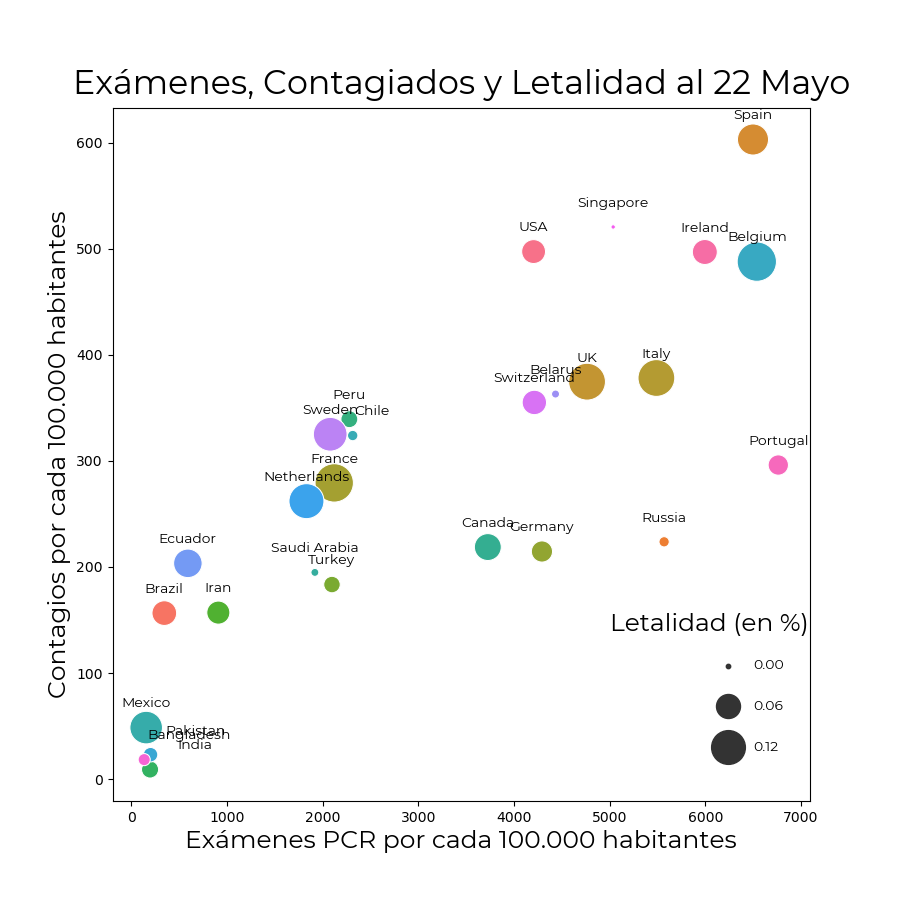
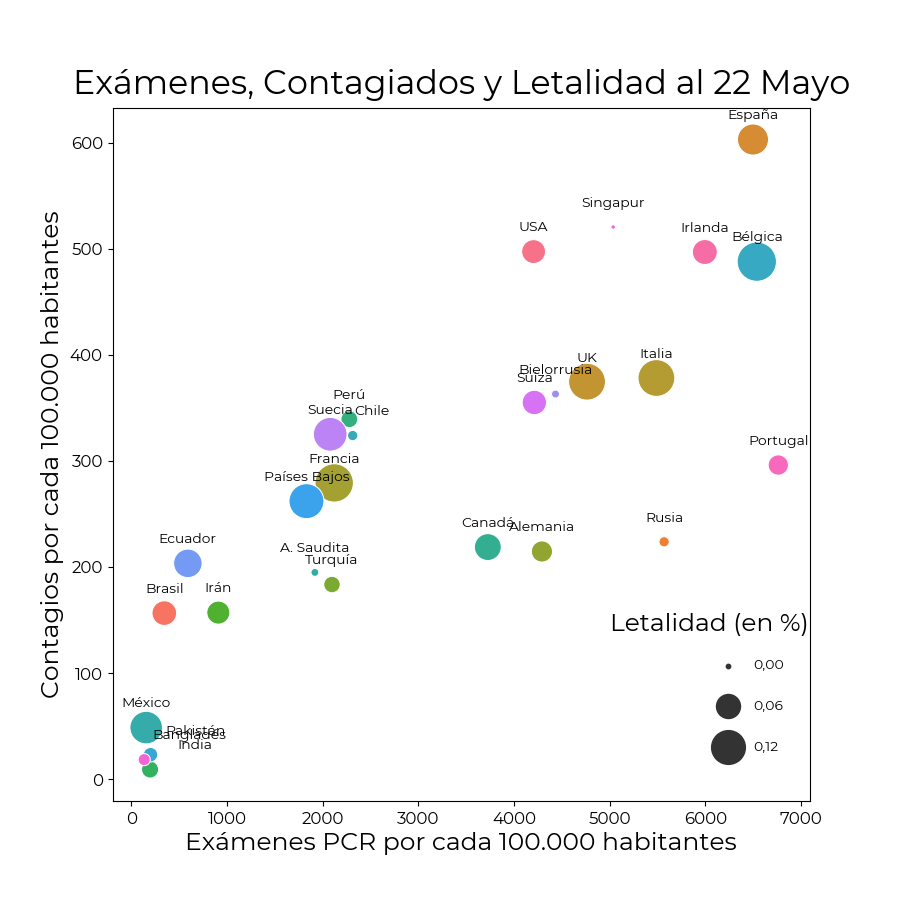
ok

diff --git a/herramientas/postPCRglobal/analisis_test_PCR.py b/herramientas/postPCRglobal/analisis_test_PCR.py
@@ -1,14 +1,25 @@
+import pandas as pd
+import os
+from matplotlib import font_manager as fm, rcParams
+import matplotlib.pyplot as plt
+import seaborn as sns
+import locale
+# Set to German locale to get comma decimal separater
+import numpy as np
+
+
+locale.setlocale(locale.LC_NUMERIC, "es_ES")
+plt.rcdefaults()
+# Tell matplotlib to use the locale we set above
+plt.rcParams['axes.formatter.use_locale'] = True
+
 
 titulo='Exámenes, Contagiados y Letalidad al 22 Mayo'
 
 fontsize=24
 fontsizenames=30
 
-import pandas as pd
-import os
-from matplotlib import font_manager as fm, rcParams
-import matplotlib.pyplot as plt
-import seaborn as sns
+
 
 fpath = os.path.join(rcParams["datapath"],"../Montserrat-Regular.ttf")
 prop = fm.FontProperties(size= 20,fname="../Montserrat-Regular.ttf")
@@ -19,6 +30,9 @@ fname = os.path.split(fpath)[1]
 path='test.csv'
 
 df1=pd.read_csv(path,sep=",")
+
+pais = np.array(['USA', 'Brasil', 'Rusia',r'España', 'UK','Italia', 'Francia', 'Alemania', r'Turquía', r'Irán', 'India', r'Perú', 'China', r'Canadá', 'A. Saudita', r'México', 'Chile', r'Bélgica', r'Pakistán', r'Países Bajos','Qatar', 'Ecuador', 'Bielorrusia', 'Suecia', 'Suiza', 'Singapur', r'Bangladés', 'Portugal', 'UAE', 'Irlanda'])
+df1['Pais'] = pais
 
 #print(df1.head())
 #print(df1.iloc[:,2])
@@ -74,7 +88,7 @@ for line in df1.index:#range(0,datascatter.shape[0]):
           deltaderecha=199
         ax.text(df1[x][line]+deltaderecha,
                  df1[y][line]+19,
-                 df1['Country'][line],
+                 df1['Pais'][line],
                  horizontalalignment='center',
                  color='black',
                  fontsize=3,
@@ -100,7 +114,11 @@ ax.text(5000, 140, 'Letalidad (en %)', fontproperties=prop,fontsize=18)
 plt.xlabel("Exámenes PCR por cada 100.000 habitantes",fontproperties=prop,fontsize=18)
 plt.ylabel("Contagios por cada 100.000 habitantes",fontproperties=prop,fontsize=18)
 plt.title(titulo,pad=10,fontproperties=prop,fontsize=fontsize)
-#plt.xticks([250, 500, 750, 1000,1250, 1500], ['250', '500', '750', '1.000', '1.250', '1.500'])
+
+
+
+plt.xticks(fontproperties = prop, fontsize= 12)
+plt.yticks(fontproperties = prop, fontsize = 12)
 plt.savefig("PostPCRMundo.png")
 plt.show()
 
